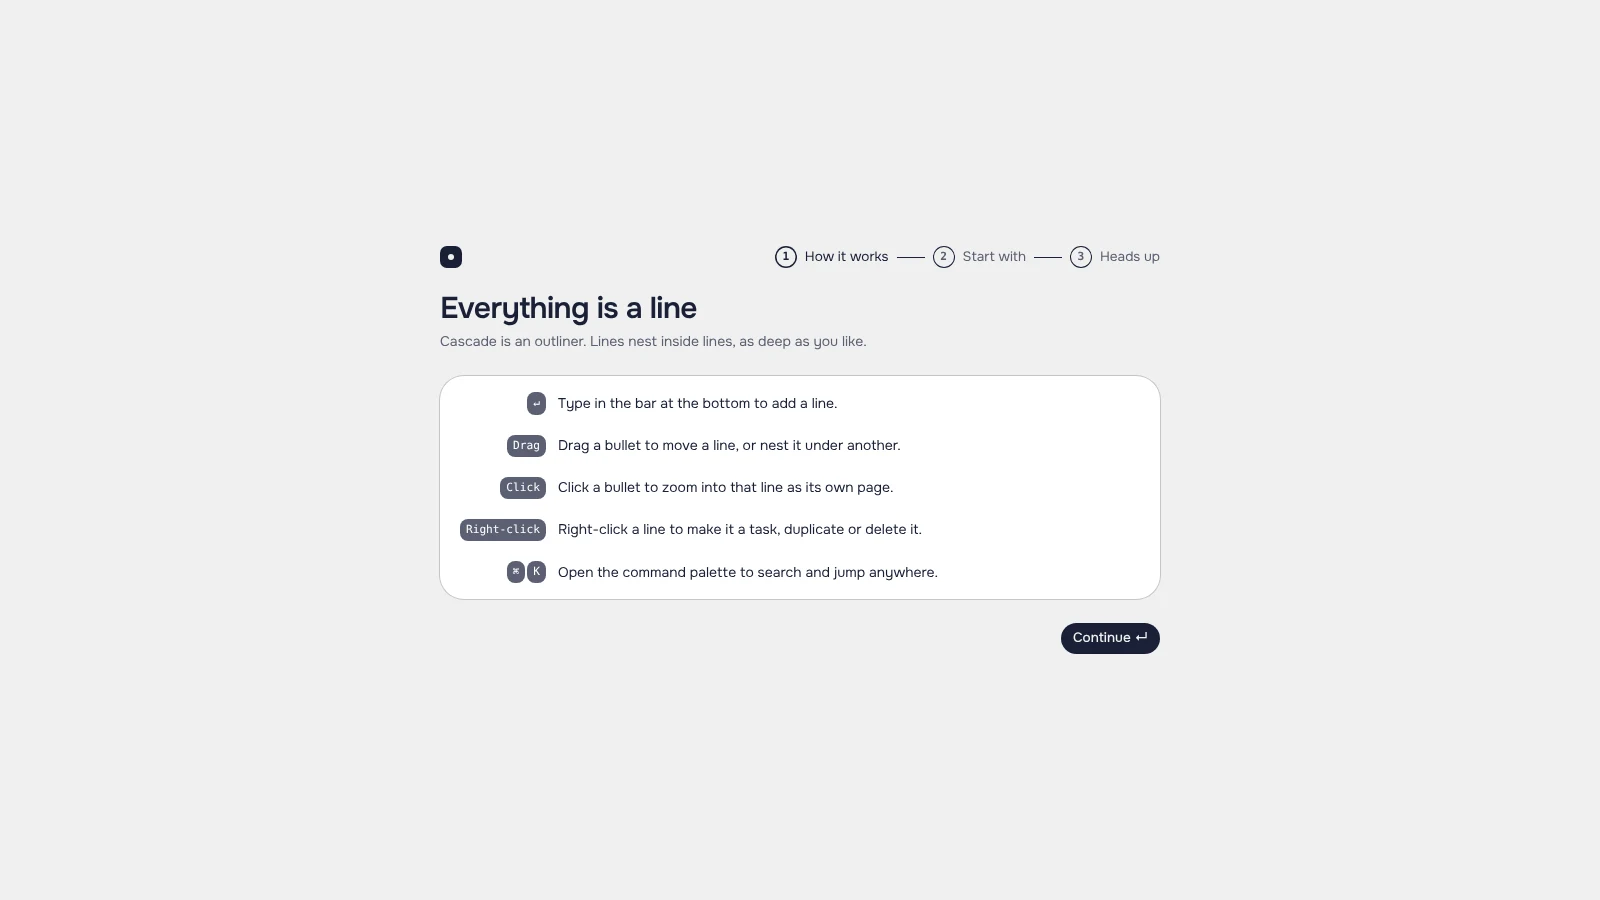
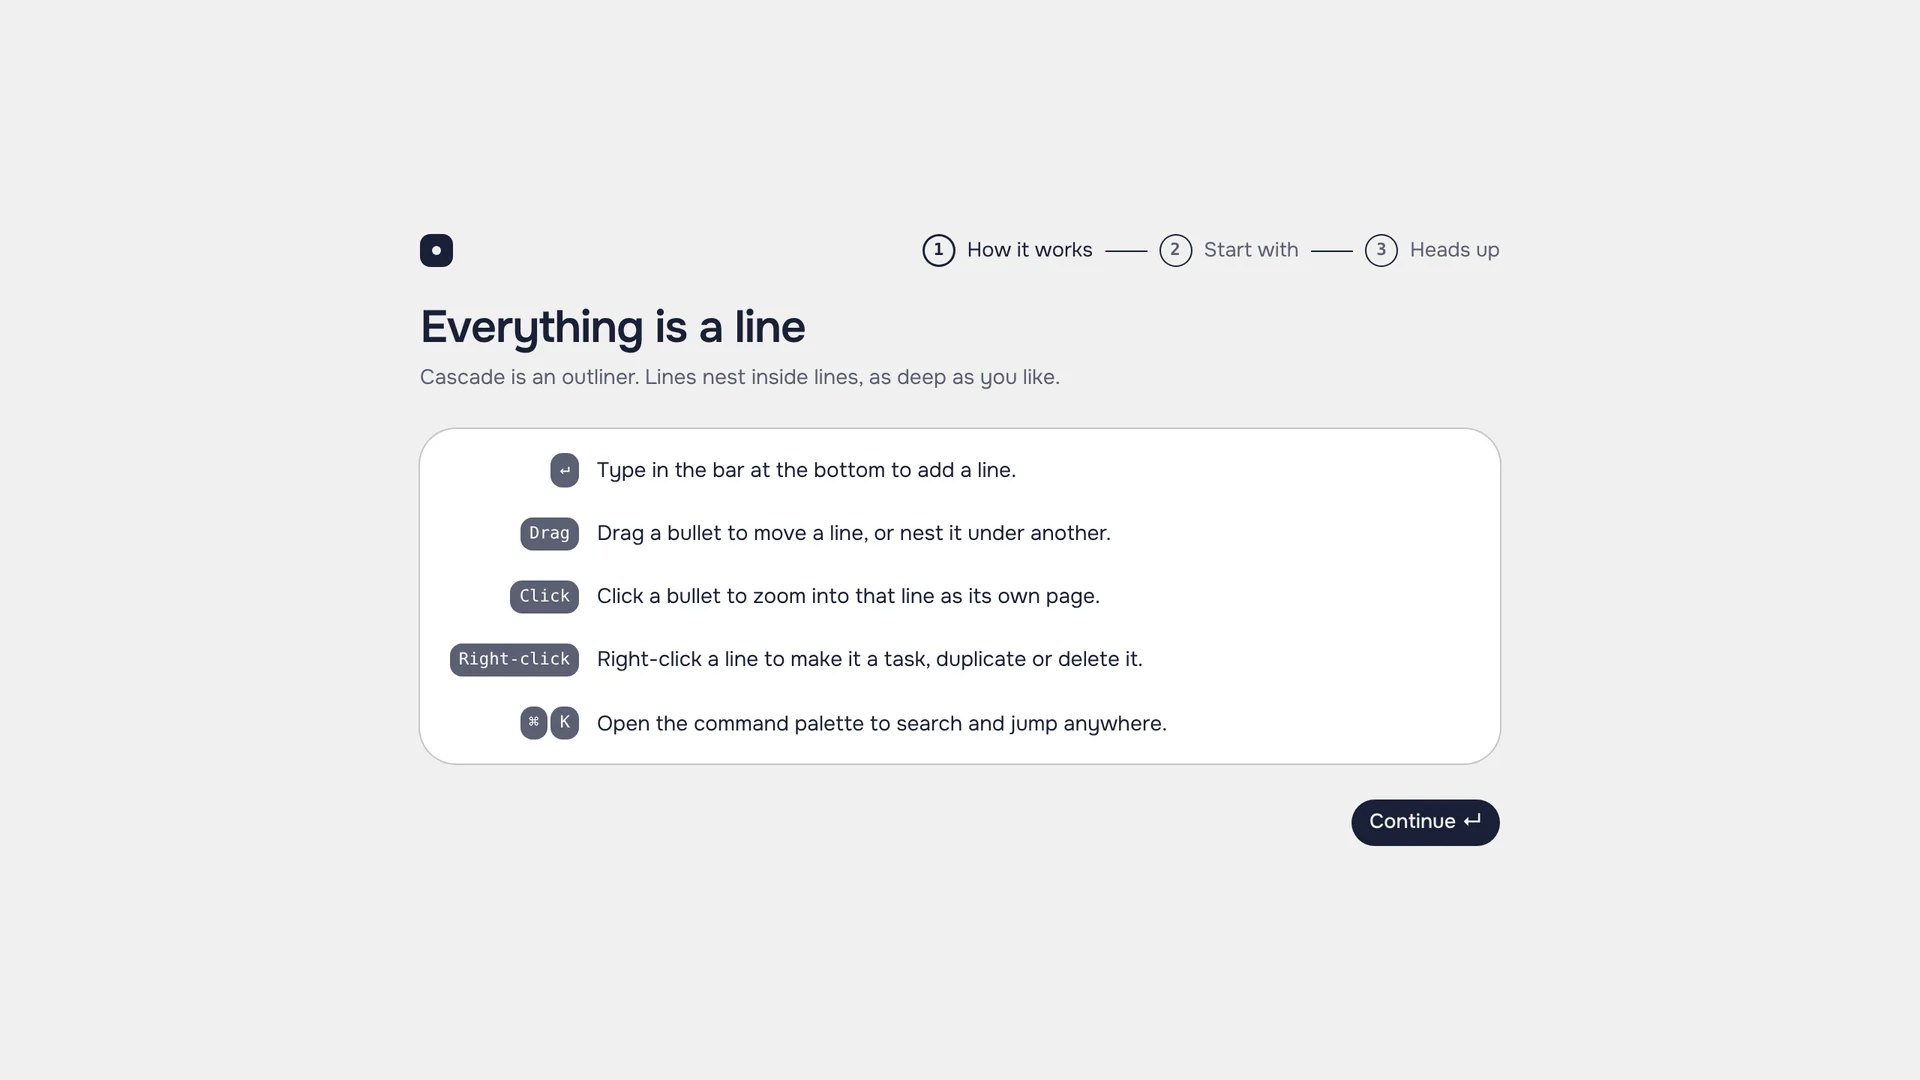
Add app and website screenshots to Cascadelist page
Nested outline, context menu, command palette, zoomed node and
onboarding from the app; hero and features section from the website.

Claude-Session: https://claude.ai/code/session_018nu1ELxjLkbYSoMvjB9whx

diff --git a/apps/website/src/components/cascade/gallery.tsx b/apps/website/src/components/cascade/gallery.tsx
@@ -1,28 +1,34 @@
-import { Image } from '@/components/ui/image/image'
-import { Label } from '@/components/ui/label/label'
+import { Shot } from './shot'
+
+const shots = [
+  {
+    src: '/projects/cascade/menu.webp',
+    alt: 'The right-click menu on a line, with the Convert into submenu showing Text and Task',
+    caption: 'Right-click any line to convert, indent, zoom, duplicate or delete it.',
+  },
+  {
+    src: '/projects/cascade/palette.webp',
+    alt: "The command palette searching for 'chapter', with two matching nodes and an option to create a new one",
+    caption: 'The command palette searches every node and jumps straight to it.',
+  },
+  {
+    src: '/projects/cascade/zoom.webp',
+    alt: "The 'Sprint 14' line zoomed in as its own page, showing its three tasks",
+    caption: 'Zoomed in, a line becomes its own page with its own URL.',
+  },
+  {
+    src: '/projects/cascade/onboarding.webp',
+    alt: "Cascade onboarding, titled 'Everything is a line', listing the five gestures that drive the app",
+    caption: 'Onboarding explains the whole app in five lines.',
+  },
+] as const
 
 export function Gallery() {
   return (
-    <figure className="mt-fluid-4xl flex flex-col gap-3">
-      <div className="grid gap-3 md:grid-cols-2">
-        <div className="overflow-hidden rounded-3xl ring-1 ring-border-default">
-          <Image
-            ratio="16/9"
-            src="/projects/cascade/onboarding.webp"
-            alt="Cascade onboarding, titled 'Everything is a line', listing the five gestures that drive the app"
-          />
-        </div>
-        <div className="overflow-hidden rounded-3xl ring-1 ring-border-default">
-          <Image
-            ratio="16/9"
-            src="/projects/cascade/outline.webp"
-            alt="A Cascade outline with a list of lines above the 'Capture a thought' bar"
-          />
-        </div>
-      </div>
-      <Label size="xs" render={<figcaption />}>
-        Onboarding explains the whole app in five lines; after that it is an outline and a capture bar.
-      </Label>
-    </figure>
+    <div className="mt-fluid-4xl grid gap-x-3 gap-y-8 md:grid-cols-2">
+      {shots.map((shot) => (
+        <Shot key={shot.src} {...shot} />
+      ))}
+    </div>
   )
 }

diff --git a/apps/website/src/components/cascade/website.tsx b/apps/website/src/components/cascade/website.tsx
@@ -1,0 +1,27 @@
+import { LabeledSection } from '@/components/ui/labeled-section/labeled-section'
+import { Typography } from '@/components/ui/typography/typography'
+import { Shot } from './shot'
+
+export function Website() {
+  return (
+    <LabeledSection id="website" tone="plum">
+      <LabeledSection.Label hint="03">The website</LabeledSection.Label>
+      <LabeledSection.Content>
+        <div className="flex flex-col gap-8">
+          <div className="max-w-[46ch]">
+            <Typography size="lg">
+              cascadelist.com opens with a real outline you can type into before reading a word of marketing. Below it,
+              each planned view gets a small illustration built from the same parts as the app.
+            </Typography>
+          </div>
+          <Shot
+            ratio="16/10"
+            src="/projects/cascade/features.webp"
+            alt="The features section of cascadelist.com: cards for Board, Table, Links and backlinks, Mirrors, Split pane and History, each marked coming soon"
+            caption="One outline, a dozen ways to look at it: the views on the roadmap."
+          />
+        </div>
+      </LabeledSection.Content>
+    </LabeledSection>
+  )
+}

diff --git a/apps/website/src/components/cascade/idea.tsx b/apps/website/src/components/cascade/idea.tsx
@@ -1,6 +1,7 @@
 import { LabeledSection } from '@/components/ui/labeled-section/labeled-section'
 import { Title } from '@/components/ui/title/title'
 import { Typography } from '@/components/ui/typography/typography'
+import { Shot } from './shot'
 
 export function Idea() {
   return (
@@ -26,6 +27,11 @@ export function Idea() {
               start, and the command palette jumps to anything from the keyboard.
             </Typography>
           </div>
+          <Shot
+            src="/projects/cascade/outline.webp"
+            alt="A Cascade outline with three nested groups: a novel, a sprint with tasks, and groceries"
+            caption="A novel, a sprint and a grocery list in one outline, without an account."
+          />
         </div>
       </LabeledSection.Content>
     </LabeledSection>

diff --git a/apps/website/src/routes/projects.cascade.tsx b/apps/website/src/routes/projects.cascade.tsx
@@ -6,6 +6,7 @@ import { Header } from '../components/cascade/header'
 import { Idea } from '../components/cascade/idea'
 import { NextProject } from '../components/cascade/next-project'
 import { Status } from '../components/cascade/status'
+import { Website } from '../components/cascade/website'
 import { DarkSlabFooter } from '../components/dark-slab-footer'
 import { seo } from '../seo/pages'
 
@@ -16,8 +17,9 @@ function Cascade() {
         <Header />
         <Facts />
         <Idea />
-        <Build />
         <Gallery />
+        <Build />
+        <Website />
         <Status />
         <NextProject />
       </main>

diff --git a/apps/website/src/components/cascade/shot.tsx b/apps/website/src/components/cascade/shot.tsx
@@ -1,0 +1,17 @@
+import { Image, type ImageProps } from '@/components/ui/image/image'
+import { Label } from '@/components/ui/label/label'
+
+type ShotProps = Pick<ImageProps, 'src' | 'alt' | 'ratio'> & { caption: string }
+
+export function Shot({ caption, ratio = '16/9', ...props }: ShotProps) {
+  return (
+    <figure className="flex flex-col gap-3">
+      <div className="overflow-hidden rounded-3xl ring-1 ring-border-default">
+        <Image ratio={ratio} {...props} />
+      </div>
+      <Label size="xs" render={<figcaption />}>
+        {caption}
+      </Label>
+    </figure>
+  )
+}

diff --git a/apps/website/src/components/cascade/status.tsx b/apps/website/src/components/cascade/status.tsx
@@ -11,7 +11,7 @@ const roadmap = [
 export function Status() {
   return (
     <LabeledSection id="status" tone="azure">
-      <LabeledSection.Label hint="03">Where it stands</LabeledSection.Label>
+      <LabeledSection.Label hint="04">Where it stands</LabeledSection.Label>
       <LabeledSection.Content>
         <ul className="grid grid-cols-[repeat(auto-fit,minmax(220px,1fr))] gap-8">
           {roadmap.map(({ title, body }) => (
